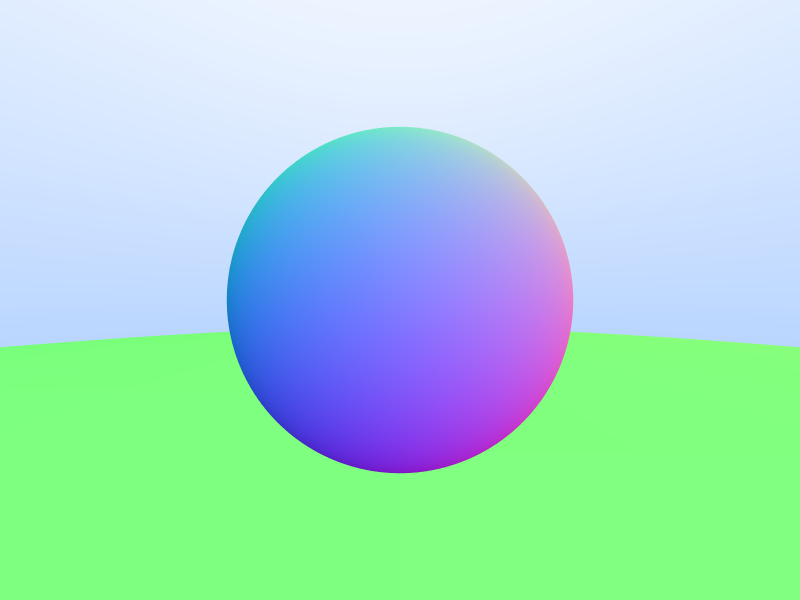
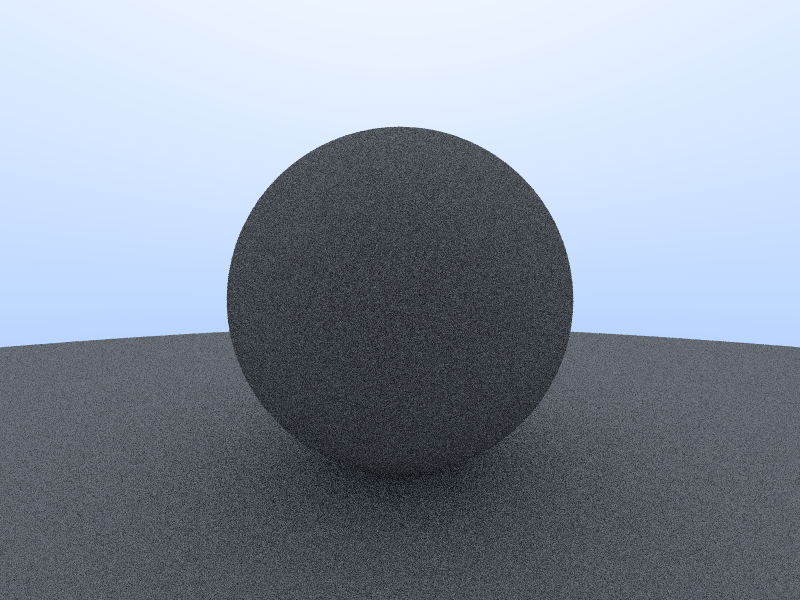
First diffuse image

diff --git a/src/main.rs b/src/main.rs
@@ -1,23 +1,60 @@
 use glam::{DVec3, UVec2};
-use image::ImageBuffer;
-use std::fmt::Write;
-use std::{thread, time};
+use std::{thread, time, fmt::Write};
 use indicatif::{ProgressBar, ProgressState, ProgressStyle};
 use rand::prelude::*;
+use image::ImageBuffer;
 use pt::geometries::{Intersection, Object, Ray, Sphere};
 
-fn intersects_world(objects: &Vec<Box<dyn Object>>, ray: &Ray) -> Option<Intersection> {
-  let mut closest_object: Option<Intersection> = None;
+// Generating a random vector on a hemisphere using the rejection method
+fn random_hemisphere_vector(normal: DVec3) -> DVec3 {
+  let mut rng = rand::rng();
+  let on_unit_sphere: DVec3;
+  loop {
+    let x: f64 = rng.random_range(-1.0..1.0);
+    let y: f64 = rng.random_range(-1.0..1.0);
+    let z: f64 = rng.random_range(-1.0..1.0);
+
+    let vector: DVec3 = DVec3::new(x, y, z);
+
+    // If the point is inside the unit sphere, accept it
+    if vector.length_squared() <= 1.0 {
+      on_unit_sphere = vector.normalize(); // Return the normalized unit vector
+      break;
+    }
+  }
+  if on_unit_sphere.dot(normal) > 0.0 {
+    return on_unit_sphere;
+  }
+  -on_unit_sphere
+}
+
+// Get the color illuminated by a particular ray given a scene
+fn intersects_world(objects: &Vec<Box<dyn Object>>, ray: &Ray, depth: i32) -> DVec3 {
+  if depth <= 0 {
+    return DVec3::new(0.0, 0.0, 0.0);
+  }
+
+  let mut closest_intersection: Option<Intersection> = None;
   let mut closest_distance: f64 = f64::MAX;
 
   for obj in objects.iter() {
     if let Some(intersection) = obj.intersects(ray, 0.0, closest_distance) {
       closest_distance = intersection.t;
-      closest_object = Some(intersection);
+      closest_intersection = Some(intersection);
     }
   }
 
-  closest_object
+  let mut color: DVec3 = DVec3::new(0.0, 0.0, 0.0);
+  if closest_intersection.is_some() {
+    let intersection: Intersection = closest_intersection.unwrap();
+    let direction: DVec3 = random_hemisphere_vector(intersection.normal);
+    color += 0.5 * (intersects_world(objects, &Ray::new(intersection.location, direction), depth-1));
+  } else {
+    let a: f64 = 0.5 * (ray.direction.normalize().y + 1.0);
+    color += (a) * DVec3::new(1.0, 1.0, 1.0) + (1.0-a)*DVec3::new(0.5, 0.7, 1.0);
+  }
+
+  color
 }
 
 /* Set-up Scene and render Image */
@@ -26,19 +63,18 @@ fn main() {
 
   // Create Image
   println!("[1/4] 📸 Creating image...");
-  thread::sleep(time::Duration::from_millis(800));
+  thread::sleep(time::Duration::from_millis(rand::rng().random::<u64>() % 1000));
   let dimensions: UVec2 = UVec2::new(800, 600);
   let mut buffer: ImageBuffer<image::Rgb<u8>, Vec<u8>> = ImageBuffer::new(dimensions.x, dimensions.y);
 
   // Scene
   println!("[2/4] 🔧 Constructing scene...");
-  thread::sleep(time::Duration::from_millis(800));
+  thread::sleep(time::Duration::from_millis(rand::rng().random::<u64>() % 1000));
   let mut objects: Vec<Box<dyn Object>> = Vec::new();
   objects.push(Box::new(Sphere{ center: DVec3::new(0.0, 0.0, -1.0), radius: 0.5 }));
   objects.push(Box::new(Sphere{ center: DVec3::new(0.0, -100.5, -1.0), radius: 100.0 }));
 
   // Camera
-  let samples: i32 = 100;
   let focal_length: f64 = 1.0;
   let center: DVec3 = DVec3::new(0.0, 0.0, 0.0);
   let u: DVec3 = DVec3::new(2.0 * (dimensions.x as f64 / dimensions.y as f64), 0.0, 0.0);
@@ -49,13 +85,17 @@ fn main() {
     (center - DVec3::new(0.0, 0.0, focal_length) - u/2.0 - v/2.0) 
     + 0.5 * (delta_u + delta_v);
 
+  // Set-up rendering settings
+  let samples: i32 = 10;
+  let max_bounces: i32 = 50;
+
   // Write an image
   let bar = ProgressBar::new(dimensions.y as u64);
   bar.set_style(ProgressStyle::with_template("{spinner:.green} [{elapsed_precise}] [{wide_bar:.cyan/blue}] ({eta})")
       .unwrap()
       .with_key("eta", |state: &ProgressState, w: &mut dyn Write | write!(w, "{:.1}s", state.eta().as_secs_f64()).unwrap())
       .progress_chars("#>-"));
-  println!("[3/4] 🖼 Rendering...");
+  println!("[3/4] 🖼  Rendering...");
   for y in 0..dimensions.y {
     for x in 0..dimensions.x {
       // Anti-aliasing
@@ -65,6 +105,7 @@ fn main() {
           rand::rng().random::<f64>() - 0.5, 
           rand::rng().random::<f64>() - 0.5, 0.0
         );
+
         let pixel_sample: DVec3 = upper_left 
           + ((x as f64 + offset.x) * delta_u) 
           + ((y as f64 + offset.y) * delta_v);
@@ -72,13 +113,8 @@ fn main() {
           center, 
           pixel_sample  - center
         );
-
-        if let Some(intersection) = intersects_world(&objects, &ray) {
-          color += 0.5 * (intersection.normal + DVec3::new(1.0, 1.0, 1.0));
-        } else {
-          let a: f64 = 0.5 * (ray.direction.normalize().y + 1.0);
-          color += (a) * DVec3::new(1.0, 1.0, 1.0) + (1.0-a)*DVec3::new(0.5, 0.7, 1.0);
-        }
+        
+        color += intersects_world(&objects, &ray, max_bounces);
       }
       color *= 1.0 / samples as f64;
 

diff --git a/src/geometries.rs b/src/geometries.rs
@@ -59,7 +59,6 @@ impl Object for Sphere {
     let t: f64 = root;
     let p: DVec3 = ray.at(t);
     let normal: DVec3 = (p - self.center) / self.radius;
-    return Some(Intersection{ location: p, normal: normal, t: t });
-
+    Some(Intersection{ location: p, normal: normal, t: t })
   }
 }
